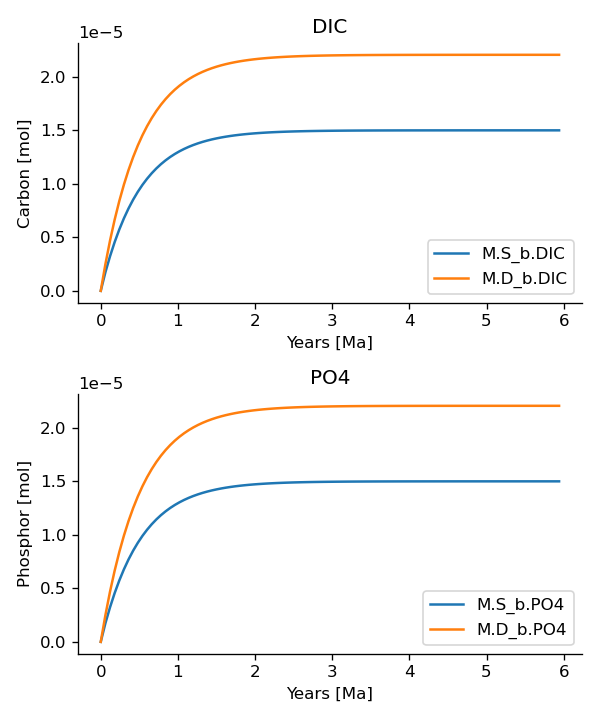
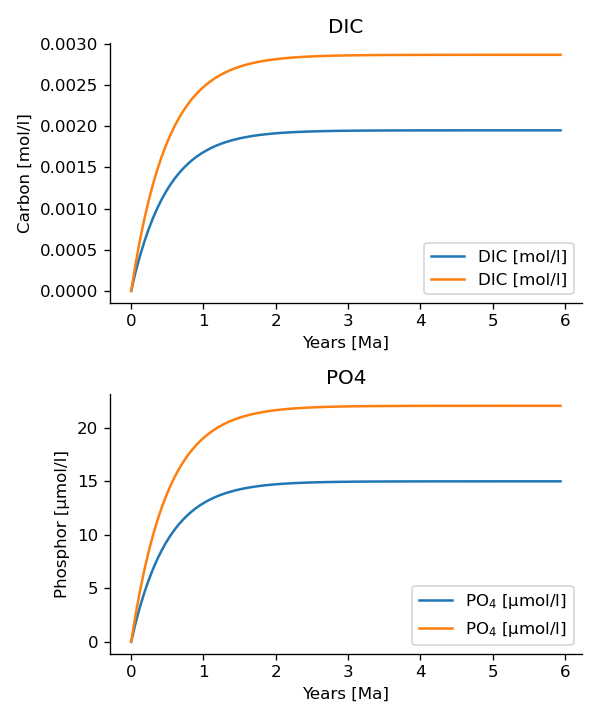
updated the documentation

diff --git a/docs/manual/po4_2.py b/docs/manual/po4_2.py
@@ -1,6 +1,7 @@
 # import classes from the esbmtk library
 from esbmtk import (
     Model,  # the model class
+    Connection,
     ReservoirGroup,  # the reservoir class
     ConnectionGroup,  # the connection class
     SourceGroup,  # the source class
@@ -16,16 +17,18 @@ M = Model(
     element=["Phosphor", "Carbon"],  # list of element definitions
 )
 
-# boundary conditions
-F_w = M.set_flux("45 Gmol", "year", M.P)  # P @280 ppm (Filipelli 2002)
+# Fixed ratios
+Redfield = 130  # C:P ratio
+R_e = 0.01  # About 1% of the exported P is buried in the deep ocean
 tau = Q_("100 year")  # PO4 residence time in surface box
-R_e = 1 - 0.01  # About 1% of the exported P is buried in the deep ocean
 thc = "20*Sv"  # Thermohaline circulation in Sverdrup
+F_w_OM = M.set_flux("5850 Gmol", "year", M.C)  # P @280 ppm (Filipelli 2002)
+F_w_PO4 = F_w_OM / Redfield
 
 # Source definitions
 SourceGroup(
     name="weathering",
-    species=[M.PO4, M.DIC],
+    species=[M.DIC, M.PO4],
     register=M,  # i.e., the instance will be available as M.weathering
 )
 SinkGroup(
@@ -51,9 +54,9 @@ ReservoirGroup(
 ConnectionGroup(
     source=M.weathering,  # source of flux
     sink=M.S_b,  # target of flux
-    rate=F_w,  # rate of flux
+    rate={M.DIC: F_w_OM, M.PO4: F_w_PO4},  # rate of flux
     ctype="regular",  # required!
-    id="river",  # connection id
+    id="weathering",  # connection id
 )
 
 ConnectionGroup(  # thermohaline downwelling
@@ -61,33 +64,56 @@ ConnectionGroup(  # thermohaline downwelling
     sink=M.D_b,  # target of flux
     ctype="scale_with_concentration",
     scale=thc,
-    id="downwelling_PO4",
-    # ref_reservoirs=M.sb, defaults to the source instance
+    id="downwelling",
 )
 ConnectionGroup(  # thermohaline upwelling
     source=M.D_b,  # source of flux
     sink=M.S_b,  # target of flux
     ctype="scale_with_concentration",
     scale=thc,
-    id="upwelling_PO4",
+    id="upwelling",
 )
 
-ConnectionGroup(  #
-    source=M.S_b,  # source of flux
-    sink=M.D_b,  # target of flux
+# Primary production as a function of P-concentration
+Connection(  #
+    source=M.S_b.DIC,  # source of flux
+    sink=M.D_b.DIC,  # target of flux
+    ref_reservoirs=M.S_b.PO4,
     ctype="scale_with_concentration",
-    scale=M.S_b.volume / tau,
-    id="primary_production",
+    scale=Redfield * M.S_b.volume / tau,
+    id="OM_production",
 )
 
-ConnectionGroup(  #
-    source=M.D_b,  # source of flux
-    sink=M.burial,  # target of flux
+# POP export as a funtion of OM export
+Connection(  #
+    source=M.S_b.PO4,  # source of flux
+    sink=M.D_b.PO4,  # target of flux
     ctype="scale_with_flux",
-    ref_flux=M.flux_summary(filter_by="primary_production PO4", return_list=True)[0],
-    scale=1 - R_e,
-    id="burial",
+    ref_flux=M.flux_summary(filter_by="OM_production", return_list=True)[0],
+    scale=1 / Redfield,
+    id="POP",
 )
+
+# P burial
+Connection(  #
+    source=M.D_b.PO4,  # source of flux
+    sink=M.burial.PO4,  # target of flux
+    ctype="scale_with_flux",
+    ref_flux=M.flux_summary(filter_by="POP", return_list=True)[0],
+    scale=R_e,
+    id="P_burial",
+)
+
+# OM burial
+Connection(  #
+    source=M.D_b.DIC,  # source of flux
+    sink=M.burial.DIC,  # target of flux
+    ctype="scale_with_flux",
+    ref_flux=M.flux_summary(filter_by="OM_production", return_list=True)[0],
+    scale=R_e,
+    id="OM_burial",
+)
+
 
 M.run()
 pl = data_summaries(M, [M.DIC, M.PO4], [M.S_b, M.D_b], M)

diff --git a/docs/manual/po4_1.py b/docs/manual/po4_1.py
@@ -37,51 +37,52 @@ Sink(
 Reservoir(
     name="sb",  # box name
     species=M.PO4,  # species in box
-    register=M,  # this box will be available as M.sb
+    register=M,  # this box will be available as M.S_b
     volume="3E16 m**3",  # surface box volume
     concentration="0 umol/l",  # initial concentration
 )
 Reservoir(
     name="db",  # box name
     species=M.PO4,  # species in box
-    register=M,  # this box will be available M.db
+    register=M,  # this box will be available M.D_b
     volume="100E16 m**3",  # deeb box volume
     concentration="0 umol/l",  # initial concentration
 )
 
 Connection(
     source=M.weathering,  # source of flux
-    sink=M.sb,  # target of flux
+    sink=M.S_b,  # target of flux
     rate=F_w,  # rate of flux
     id="river",  # connection id
+    ctype="regular",
 )
 
 Connection(  # thermohaline downwelling
-    source=M.sb,  # source of flux
-    sink=M.db,  # target of flux
+    source=M.S_b,  # source of flux
+    sink=M.D_b,  # target of flux
     ctype="scale_with_concentration",
     scale=thc,
     id="downwelling_PO4",
-    # ref_reservoirs=M.sb, defaults to the source instance
+    # ref_reservoirs=M.S_b, defaults to the source instance
 )
 Connection(  # thermohaline upwelling
-    source=M.db,  # source of flux
-    sink=M.sb,  # target of flux
+    source=M.D_b,  # source of flux
+    sink=M.S_b,  # target of flux
     ctype="scale_with_concentration",
     scale=thc,
     id="upwelling_PO4",
 )
 
 Connection(  #
-    source=M.sb,  # source of flux
-    sink=M.db,  # target of flux
+    source=M.S_b,  # source of flux
+    sink=M.D_b,  # target of flux
     ctype="scale_with_concentration",
-    scale=M.sb.volume / tau,
+    scale=M.S_b.volume / tau,
     id="primary_production",
 )
 
 Connection(  #
-    source=M.db,  # source of flux
+    source=M.D_b,  # source of flux
     sink=M.burial,  # target of flux
     ctype="scale_with_flux",
     ref_flux=M.flux_summary(filter_by="primary_production", return_list=True)[0],
@@ -90,5 +91,5 @@ Connection(  #
 )
 
 M.run()
-M.plot([M.sb, M.db], fn="po4_1.png")
+M.plot([M.S_b, M.D_b], fn="po4_1.png")
 M.save_state(directory="state_po41")

diff --git a/docs/manual/po4_1_with_signal.py b/docs/manual/po4_1_with_signal.py
@@ -49,52 +49,53 @@ Sink(
 Reservoir(
     name="sb",  # box name
     species=M.PO4,  # species in box
-    register=M,  # this box will be available as M.sb
+    register=M,  # this box will be available as M.S_b
     volume="3E16 m**3",  # surface box volume
     concentration="0 umol/l",  # initial concentration
 )
 Reservoir(
     name="db",  # box name
     species=M.PO4,  # species in box
-    register=M,  # this box will be available M.db
+    register=M,  # this box will be available M.D_b
     volume="100E16 m**3",  # deeb box volume
     concentration="0 umol/l",  # initial concentration
 )
 
 Connection(
     source=M.weathering,  # source of flux
-    sink=M.sb,  # target of flux
+    sink=M.S_b,  # target of flux
     rate=F_w,  # rate of flux
     id="river",  # connection id
+    ctype="regular",
     # signal=M.CR,
 )
 
 Connection(  # thermohaline downwelling
-    source=M.sb,  # source of flux
-    sink=M.db,  # target of flux
+    source=M.S_b,  # source of flux
+    sink=M.D_b,  # target of flux
     ctype="scale_with_concentration",
     scale=thc,
     id="downwelling_PO4",
-    # ref_reservoirs=M.sb, defaults to the source instance
+    # ref_reservoirs=M.S_b, defaults to the source instance
 )
 Connection(  # thermohaline upwelling
-    source=M.db,  # source of flux
-    sink=M.sb,  # target of flux
+    source=M.D_b,  # source of flux
+    sink=M.S_b,  # target of flux
     ctype="scale_with_concentration",
     scale=thc,
     id="upwelling_PO4",
 )
 
 Connection(  #
-    source=M.sb,  # source of flux
-    sink=M.db,  # target of flux
+    source=M.S_b,  # source of flux
+    sink=M.D_b,  # target of flux
     ctype="scale_with_concentration",
-    scale=M.sb.volume / tau,
+    scale=M.S_b.volume / tau,
     id="primary_production",
 )
 
 Connection(  #
-    source=M.db,  # source of flux
+    source=M.D_b,  # source of flux
     sink=M.burial,  # target of flux
     ctype="scale_with_flux",
     ref_flux=M.flux_summary(filter_by="primary_production", return_list=True)[0],
@@ -103,5 +104,5 @@ Connection(  #
 )
 
 M.run()
-M.plot([M.sb, M.db, M.CR])
+M.plot([M.S_b, M.D_b, M.CR])
 M.save_state()

diff --git a/docs/manual/manual.rst b/docs/manual/manual.rst
@@ -150,7 +150,7 @@ Internally, the model uses 'year' as the time unit, mol as the mass unit, and li
         element=["Phosphor"],  # list of element definitions
     )
 
-Next, we need to declare some boundary conditions. Most ESBMTK classes will be able to accept input in the form of strings that also contain units (e.g., ``"30 Gmol/a"`` ). Internally these strings are parsed and converted into the model base units. This works most of the time, but not always. In the below example, we the residence time :math:`\tau`.  This variable is then used as input to calculate the scale for the primary production as ``M.sb.volume / tau`` which must fail since ``M.sb.volume`` is a numeric value and ``tau`` is a string. 
+Next, we need to declare some boundary conditions. Most ESBMTK classes will be able to accept input in the form of strings that also contain units (e.g., ``"30 Gmol/a"`` ). Internally these strings are parsed and converted into the model base units. This works most of the time, but not always. In the below example, we the residence time :math:`\tau`.  This variable is then used as input to calculate the scale for the primary production as ``M.S_b.volume / tau`` which must fail since ``M.S_b.volume`` is a numeric value and ``tau`` is a string. 
 
 .. code:: ipython
 
@@ -197,14 +197,14 @@ To set up the model geometry, we first  use the ``Source`` and  ``Reservoir`` cl
     Reservoir(
         name="sb",  # box name
         species=M.PO4,  # species in box
-        register=M,  # this box will be available as M.sb
+        register=M,  # this box will be available as M.S_b
         volume="3E16 m**3",  # surface box volume
         concentration="0 umol/l",  # initial concentration
     )
     Reservoir(
         name="db",  # box name
         species=M.PO4,  # species in box
-        register=M,  # this box will be available M.db
+        register=M,  # this box will be available M.D_b
         volume="100E16 m**3",  # deeb box volume
         concentration="0 umol/l",  # initial concentration
     )
@@ -212,15 +212,16 @@ To set up the model geometry, we first  use the ``Source`` and  ``Reservoir`` cl
 2.1.4 Model processes
 ^^^^^^^^^^^^^^^^^^^^^
 
-For many models, processes can mapped as the transfer of mass from one box to the next. Within the ESBMTK framework this is accomplished through the ``Connection`` class. To connect the a weathering flux from the source object (M.w) to the surface ocean (M.sb) we declare a connection instance describing this relationship as follows:
+For many models, processes can mapped as the transfer of mass from one box to the next. Within the ESBMTK framework this is accomplished through the ``Connection`` class. To connect the a weathering flux from the source object (M.w) to the surface ocean (M.S\ :sub:`b`\) we declare a connection instance describing this relationship as follows:
 
 .. code:: ipython
 
     Connection(
         source=M.weathering,  # source of flux
-        sink=M.sb,  # target of flux
+        sink=M.S_b,  # target of flux
         rate=F_w,  # rate of flux
         id="river",  # connection id
+        ctype="regular",
     )
 
 Unless the=register= keyword is given, connections will be automatically registered withe the parent of the source, i.e., the model ``M``. Unless explicitly given through the ``name`` keyword, connection names will be automatically constructed from the names of the source and sink instances. However, it is a good habit to provide the ``id`` keyword to keep connections separate in cases where two reservoir instances share more than one connection. The list of all connection instances can be obtained from the model object (see below).
@@ -230,16 +231,16 @@ To map the process of thermohaline circulation, we connect the surface and deep 
 .. code:: ipython
 
     Connection(  # thermohaline downwelling
-        source=M.sb,  # source of flux
-        sink=M.db,  # target of flux
+        source=M.S_b,  # source of flux
+        sink=M.D_b,  # target of flux
         ctype="scale_with_concentration",
         scale=thc,
         id="downwelling_PO4",
-        # ref_reservoirs=M.sb, defaults to the source instance
+        # ref_reservoirs=M.S_b, defaults to the source instance
     )
     Connection(  # thermohaline upwelling
-        source=M.db,  # source of flux
-        sink=M.sb,  # target of flux
+        source=M.D_b,  # source of flux
+        sink=M.S_b,  # target of flux
         ctype="scale_with_concentration",
         scale=thc,
         id="upwelling_PO4",
@@ -250,10 +251,10 @@ There are several ways to define the biological export production, e.g., as  fun
 .. code:: ipython
 
     Connection(  #
-        source=M.sb,  # source of flux
-        sink=M.db,  # target of flux
+        source=M.S_b,  # source of flux
+        sink=M.D_b,  # target of flux
         ctype="scale_with_concentration",
-        scale=M.sb.volume / tau,
+        scale=M.S_b.volume / tau,
         id="primary_production",
     )
 
@@ -268,7 +269,7 @@ The ``flux_summary()`` method will return a list of matching fluxes but since th
 .. code:: ipython
 
     Connection(  #
-        source=M.db,  # source of flux
+        source=M.D_b,  # source of flux
         sink=M.burial,  # target of flux
         ctype="scale_with_flux",
         ref_flux=M.flux_summary(filter_by="primary_production", return_list=True)[0],
@@ -295,7 +296,7 @@ To run the model, use the ``run()`` method of the model instance, and plot the r
 .. code:: ipython
 
     M.run()
-    M.plot([M.sb, M.db])
+    M.plot([M.S_b, M.D_b])
     M.save_data()
 
 2.2.2 Saving/restoring the model state
@@ -343,19 +344,19 @@ All esbmtk instances and instance methods support the usual python methods to sh
 
 .. code:: ipython
 
-    help(M.sb)  # will print the documentation for sb
-    dir(M.sb)  # will print all methods for sb
-    M.sb #  when issued in an interactive session, this will echo
+    help(M.S_b)  # will print the documentation for sb
+    dir(M.S_b)  # will print all methods for sb
+    M.S_b #  when issued in an interactive session, this will echo
     # the arguments used to create the instance
 
 The concentration data for a given reservoir is stored in the following instance variables:
 
 .. code:: ipython
 
-    M.sb.c  # concentration
-    M.sb.m  # mass
-    M.sb.v  # volume
-    M.sb.d  # delta value (if used by model)
-    M.sb.l  # the concentration of the light isotope (if used)
+    M.S_b.c  # concentration
+    M.S_b.m  # mass
+    M.S_b.v  # volume
+    M.S_b.d  # delta value (if used by model)
+    M.S_b.l  # the concentration of the light isotope (if used)
 
 The model time axis is available as ``M.time`` and the model supports the ``connection_summary()`` and ``flux_summary`` methods to query the respective ``connection`` and ``flux`` objects. 
